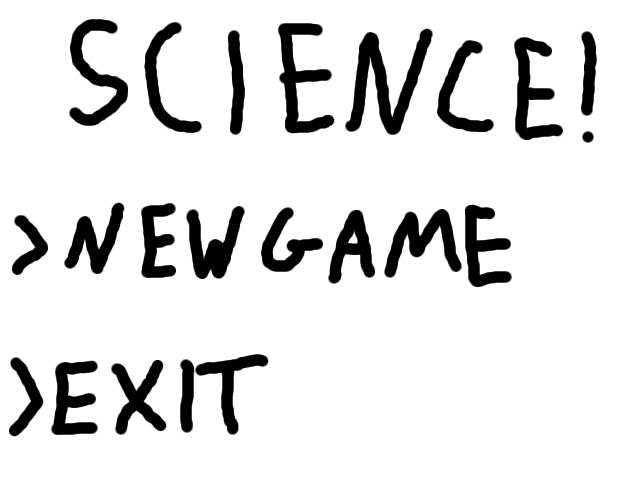
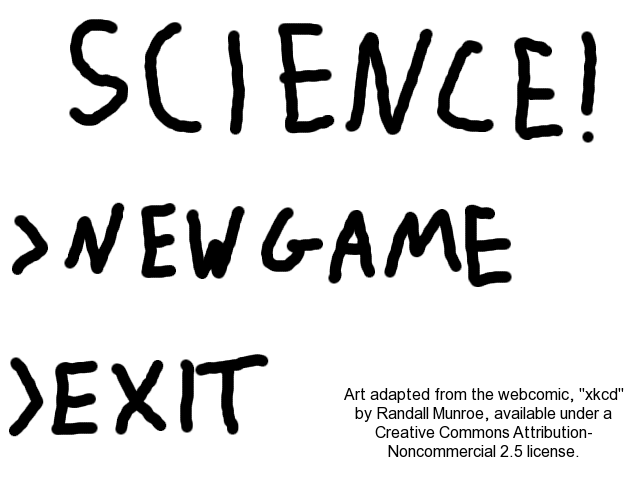
Added a few images, tweaked some stuff.

Changed region(s): [[0.5312, 0.8125, 0.9688, 0.9688]]

diff --git a/objects.py b/objects.py
@@ -106,7 +106,7 @@ class StalagmiteSprite(ScienceSprite):
 
 class CharacterSprite(ScienceSprite):
     _map_char = 'C'
-    _imagename = 'media/images/object.png'
+    _imagename = 'media/images/DraftPlayerStill.png'
 
     _velocity = [0.0,0.0]
 
